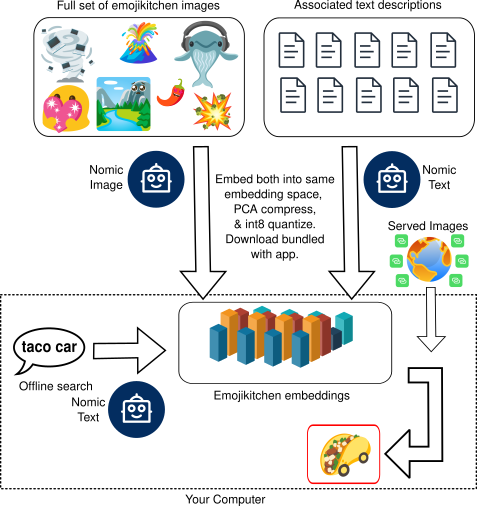
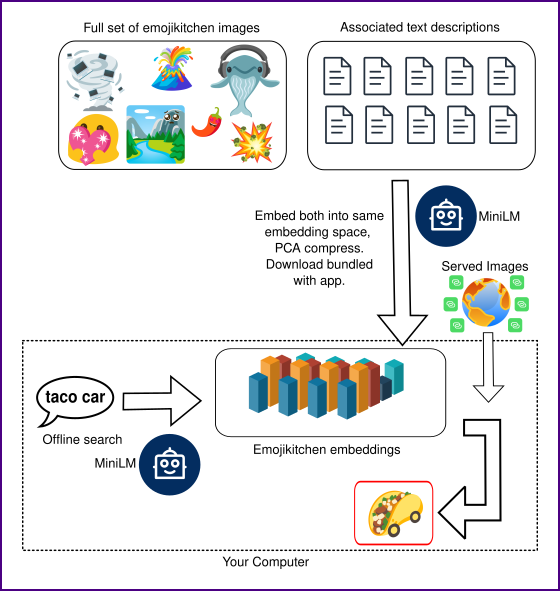
update README How-it-works section and add purple-bordered diagram

Changed region(s): [[0.0, 0.0, 1.0, 1.0]]

diff --git a/README.md b/README.md
@@ -135,10 +135,10 @@ I traveled a long way to arrive at MiniLM. At first I tried CLIP, but even the h
 
 
 ### Packaging
-I used a few tricks to reduce the size of the embedded model. I used Nuitka and TKinter to save on space, and used a slightly slower numpy matrix multiplication levaing out the BLAS and MKL math libraries in numpy to save on RAM and disk storage. Still, python was a frustratingly heavy thing to package up for this project. 
+I used a few tricks to reduce the size of the embedded model. I used Nuitka and TKinter to save on space, and used a slightly slower numpy matrix multiplication leaving out the BLAS and MKL math libraries in numpy to save on RAM and disk storage. Still, Python had frustratingly heavy packaging for this project. 
 
 ### Rendering
-A lot of work was required to get the rendering, in particular fixing a nasty bug where 16 bit representation of the x11 canvas meant I had to pack rows to at maximum 200 search result sliding window on the canvas, so that I didn't exceed the 32k pixel height threshold. I also set up a doom scrolling feature where more emojis just load forever, instead of having to click a button once you reach the bottom. This really helped with latency issues and reduces total image downloads and the wait for search results to load. 
+A lot of work was required to get nice search results rendering, in particular fixing a nasty bug where 16 bit representation of the x11 canvas meant I had to pack rows to at maximum 200 search result sliding window on the canvas, so that I didn't exceed the 32k pixel height threshold. I also set up a doom scrolling feature where more emojis just load forever, instead of having to click a button once you reach the bottom. This really helped with latency issues and reduces total image downloads and the wait for search results to load. 
 
 ### Regression Testing
 I used a lot of AI to speed up development. I found AI speeds things up, especially cross-platform support and debugging, but also breaks things more frequently. I vibe coded a visual regression testing interface to help me figure out when something had degraded with the app. I also had some fast tests that broke before I fixed the bugs, and work after I fixed them.
